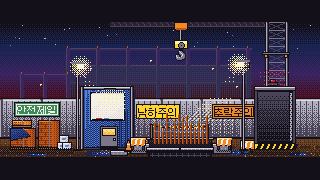
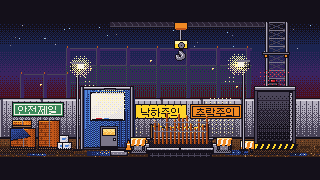
Art sweep: every painted sign fits its frame. Cinema marquee lines no longer overlap, site title card spaced, 세탁 sign clear of the pipe, safety signs widened and moved off the posts, 새벽 오피스텔 clear of the crate, the cinema lobby's lit signs no longer dimmed into dots, and the park's neon now says 달빛랜
Claude-Session: https://claude.ai/code/session_01WFu8JMBNif9aRjYRi4x9XZ

Changed region(s): [[0.4062, 0.5556, 0.8125, 0.6667], [0.0312, 0.5556, 0.2188, 0.6667]]

diff --git a/art/src/build_closeups.py b/art/src/build_closeups.py
@@ -1620,7 +1620,7 @@ def tc_milk():
     # sign + entrance
     cv.paint(mrect(bx0 + 10, 108, bx0 + 88, 118), "green1")
     cv.paint(mrect(bx0 + 10, 108, bx0 + 88, 108), "green2")
-    text(cv.img, bx0 + 12, 107, "새벽 오피스텔", "white", 9)
+    text(cv.img, bx0 + 16, 107, "새벽 오피스텔", "white", 9)
     cv.paint(mrect(bx0 + 34, 118, bx0 + 62, 128), "blue1")
     cv.dth(mrect(bx0 + 34, 118, bx0 + 62, 128), "blue3", 0.45, 4)
     cv.paint(mrect(bx0 + 47, 118, bx0 + 48, 128), "ink2")
@@ -1686,11 +1686,11 @@ def tc_cinema():
     cv.paint(mrect(80, 60, 240, 88), "ink")
     cv.paint(mrect(82, 62, 238, 86), "yellow2")
     cv.dth(mrect(82, 62, 238, 86), "orange3", 0.35, 2)
-    text(cv.img, 90, 62, "심야 상영", "red2", 14)
-    text(cv.img, 172, 62, "마지막 회", "ink", 14)
+    text(cv.img, 92, 62, "심야 상영", "red2", 11)
+    text(cv.img, 174, 62, "마지막 회", "ink", 11)
     cv.paint(mrect(86, 83, 234, 83), "orange2")
     text(cv.img, 92, 73, "〈 끝나지 않는 밤 〉", "red1", 11) if False else None
-    text(cv.img, 90, 75, "끝나지 않는 밤 · 24:30", "red1", 9)
+    text(cv.img, 106, 75, "끝나지 않는 밤 · 24:30", "red1", 9)
     for xx in range(78, 244, 6):
         px(cv.img, xx, 58, "yellow") ; px(cv.img, xx + 3, 90, "yellow")
     for yy in range(60, 90, 6):
@@ -1941,8 +1941,8 @@ def tc_site():
     cv.dth(fence, "ink", 0.25, 2)
     sign = mrect(222, 98, 310, 122)
     cv.layer(sign, "yellow", "orange2", "yellow2", sd=(2, 2), hd=(1, 1))
-    text(cv.img, 228, 98, "안전제일", "ink", 11)
-    text(cv.img, 228, 110, "신축 공사 현장", "ink", 9)
+    text(cv.img, 266, 97, "안전제일", "ink", 11, align="center")
+    text(cv.img, 266, 111, "신축 공사 현장", "ink", 9, align="center")
     # gravel ground, hazard stripes
     cv.paint(mrect(0, 130, SW, 158), "grey1")
     cv.dth(mrect(0, 130, SW, 158), "ink2", 0.5, 2)
@@ -1982,9 +1982,9 @@ def tc_park():
     arch = mpoly([(80, 128), (80, 74), (110, 54), (206, 54), (236, 74), (236, 128), (226, 128), (226, 78), (204, 62), (112, 62), (90, 78), (90, 128)])
     cv.layer(arch, "purple1", "purple0", "purple2", sd=(3, 3), hd=(2, 2), dith=True)
     # sign letters, only some lit
-    word = "달나라 놀이공원"
-    lit_i = {0, 2, 4, 5, 8}
-    x = 96
+    word = "달빛랜드"          # the park's name everywhere else in the game; the last letter has died
+    lit_i = {0, 1, 2}
+    x = 158 - len(word) * 14 // 2
     for i, ch in enumerate(word):
         if ch == " ":
             x += 6

diff --git a/art/src/build_ward_site.py b/art/src/build_ward_site.py
@@ -558,17 +558,17 @@ def build_site():
         cone(im, pts, "yellow2", 0.4, 4, only=["ink","blue0","purple0","red0","grey1","grey2","grey3"])
 
     # ---- safety signs on the hoarding
-    rect(im, 14, 102, 46, 15, "green1", "ink")
-    draw(im).rectangle([16, 104, 57, 114], outline=col("white"))
-    text(im, 37, 105, "안전제일", "white", 9, align="center")
-    rect(im, 136, 104, 44, 15, "yellow", "ink")
-    for x in range(138, 178, 8):
+    rect(im, 12, 102, 52, 15, "green1", "ink")
+    draw(im).rectangle([14, 104, 61, 114], outline=col("white"))
+    text(im, 38, 105, "안전제일", "white", 9, align="center")
+    rect(im, 135, 104, 52, 15, "yellow", "ink")
+    for x in range(137, 185, 8):
         line(im, [(x, 118), (x + 4, 105)], "ink2")
-    rect(im, 140, 106, 36, 11, "yellow")
-    text(im, 158, 107, "낙하주의", "ink", 9, align="center")
-    rect(im, 212, 104, 44, 15, "orange2", "ink")
-    draw(im).rectangle([214, 106, 253, 116], outline=col("ink"))
-    text(im, 234, 107, "추락주의", "ink", 9, align="center")
+    rect(im, 138, 106, 46, 11, "yellow")
+    text(im, 161, 107, "낙하주의", "ink", 9, align="center")
+    rect(im, 190, 104, 52, 15, "orange2", "ink")
+    draw(im).rectangle([192, 106, 239, 116], outline=col("ink"))
+    text(im, 216, 107, "추락주의", "ink", 9, align="center")
     # ---- mud ground
     dither_grad(im, (0, 138, W, 157), "brown1", "brown0", "y", 4, 0.0, 1.0)
     hline(im, 0, W - 1, 138, "ink")

diff --git a/art/src/build_cinema.py b/art/src/build_cinema.py
@@ -244,7 +244,7 @@ def build_lobby():
         vline(im, x, yt + 1, yb, "orange0")
     rect(im, 284, 126, 3, 24, "orange1", "ink")
     # sign 영사실
-    lit_sign(im, 285, 50, 32, 13, "영사실", c="yellow", bc="red2", f=9)
+    lit_sign(im, 281, 50, 37, 13, "영사실", c="yellow", bc="red2", f=9)
     poly(im, [(299, 66), (305, 66), (302, 71)], "red3", "ink")
     glow(im, 284, 50, 320, 76, "red3", 0.14, 4, 4)
 
@@ -271,6 +271,9 @@ def build_lobby():
     ovl(im, (0, Y0, W, 60), "ink", 0.22, 2)
     ovl(im, (0, 138, W, Y1), "ink", 0.12, 2)
     ovl(im, (0, Y0, 22, Y1), "ink", 0.3, 2); ovl(im, (W - 14, Y0, W, Y1), "ink", 0.2, 2)
+    # lit signs don't dim: draw them again on top of the 2AM shade
+    lit_sign(im, 52, 42, 38, 12, "매표소", f=9)
+    lit_sign(im, 281, 50, 37, 13, "영사실", c="yellow", bc="red2", f=9)
     # floor guard shadows under booth/popcorn
     letterbox(im)
     return im

diff --git a/art/src/build_bg_exterior.py b/art/src/build_bg_exterior.py
@@ -303,7 +303,7 @@ def street(night=False):
 
     # ---- ground floor
     # laundry (은하 세탁)  x 54..101
-    sign(img, 54, 91, 48, 12, "green1", "은하 세탁", "white", "ink", 9, "green2")
+    sign(img, 54, 91, 48, 12, "green1", "세탁", "white", "ink", 9, "green2")
     obox(img, 56, 105, 44, 31, "grey3", "grey4", "grey2")
     rect(img, 58, 107, 40, 27, "blue3", "ink")
     dither_grad(img, (59, 108, 97, 133), "blue4", "blue3", "d", 4, 0.9, 0.0)
